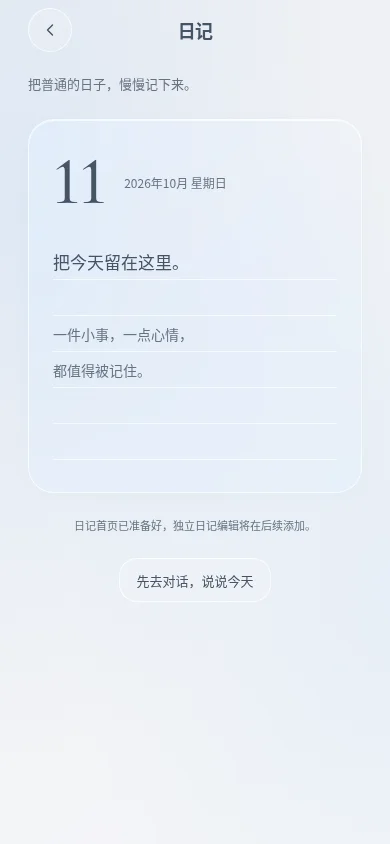
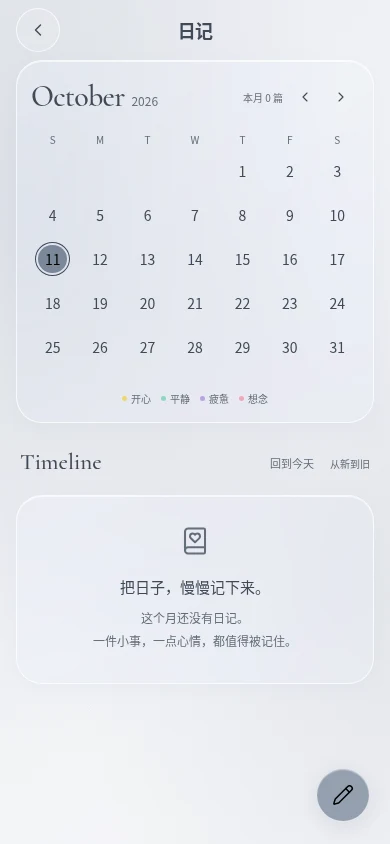
Redesign diary with monthly calendar and local journal timeline

diff --git a/src/apps/diary/style.css b/src/apps/diary/style.css
@@ -1,1 +1,35 @@
-.diary-paper{padding:28px 24px}.diary-paper time{display:flex;align-items:center;gap:18px}.diary-paper time strong{font:500 68px/1 var(--font-en);font-variant-numeric:lining-nums}.diary-paper time span{font-size:12px;line-height:1.8;max-width:120px;color:var(--muted)}.diary-lines{margin-top:28px;min-height:220px;background:repeating-linear-gradient(transparent 0,transparent 35px,var(--line) 35px,var(--line) 36px);padding-top:0}.diary-lines h2{font-size:17px;font-weight:500;line-height:36px;margin:0 0 36px}.diary-lines p{font-size:14px;line-height:36px;margin:0;color:var(--muted)}
+.page-content.desktop-app-page:has(.diary-app){padding-left:16px;padding-right:16px}
+.diary-app{padding-bottom:84px;font-family:var(--font-ui)}
+.diary-calendar{padding:14px 12px 16px}
+.diary-calendar-header{display:flex;align-items:center;gap:4px;min-height:44px;margin:0 2px 8px}
+.diary-month{display:flex;align-items:baseline;gap:7px;min-width:0;margin-right:auto}
+.diary-month h2{font:500 30px/1.15 var(--font-en);letter-spacing:-.025em}
+.diary-month>span{font-size:12px;color:var(--muted);font-variant-numeric:lining-nums}
+.diary-month-count{font-size:10px;color:var(--muted);white-space:nowrap}
+.diary-month-controls{display:flex;flex-shrink:0}.diary-month-controls button{width:36px;height:44px;display:grid;place-items:center;border-radius:14px}.diary-month-controls svg{width:16px;height:16px}
+.diary-weekdays,.diary-days{display:grid;grid-template-columns:repeat(7,minmax(0,1fr));text-align:center}
+.diary-weekdays{font-size:10px;color:var(--muted);line-height:26px;margin-bottom:2px}
+.diary-day{height:44px;padding:2px 0;display:flex;flex-direction:column;align-items:center;justify-content:center;border-radius:14px;font-variant-numeric:lining-nums tabular-nums;font-size:14px}
+.diary-day-number{width:29px;height:29px;display:grid;place-items:center;border:1px solid transparent;border-radius:50%}
+.diary-day.is-today .diary-day-number{background:var(--accent);color:var(--accent-ink)}
+.diary-day.is-selected .diary-day-number{outline:1px solid var(--ink);outline-offset:2px}
+.diary-day-moods{display:flex;align-items:center;gap:2px;height:9px;margin-top:3px}.diary-day-moods i,.diary-legend i{display:inline-block;width:5px;height:5px;border-radius:50%;background:var(--mood)}
+.diary-legend{display:flex;justify-content:center;gap:10px;margin-top:16px;color:var(--muted);font-size:10px}.diary-legend>span{display:flex;align-items:center;gap:4px}
+.diary-timeline-heading{display:flex;gap:12px;align-items:center;margin:18px 4px 10px;min-height:44px}.diary-timeline-heading h2{font:500 23px/1.2 var(--font-en);margin-right:auto}.diary-timeline-heading>span{font-size:10px;color:var(--muted)}.diary-timeline-heading button{font-size:11px;color:var(--muted);min-height:44px;padding:0 4px;border-radius:12px}
+.diary-row{display:grid;grid-template-columns:40px 20px minmax(0,1fr);position:relative;padding-bottom:14px}.diary-row:last-child{padding-bottom:0}
+.diary-date{display:flex;flex-direction:column;align-items:center;padding-top:12px;gap:4px}.diary-date strong{font:500 32px/.95 var(--font-en);font-variant-numeric:lining-nums}.diary-date>span{font-size:9px;letter-spacing:.07em;color:var(--muted)}
+.diary-track{position:relative;display:flex;justify-content:center;padding-top:17px}.diary-track:before{content:'';position:absolute;top:22px;bottom:-22px;left:calc(50% - .5px);width:1px;background:rgb(var(--tint) / .45)}.diary-row:last-child .diary-track:before{display:none}.diary-track i{position:relative;display:block;width:11px;height:11px;border-radius:50%;background:var(--mood);box-shadow:0 0 0 4px var(--bg)}
+.diary-app .diary-entry.app-panel{display:block;width:100%;text-align:left;border-radius:20px;padding:12px 14px;min-width:0;overflow-wrap:anywhere}.diary-app .diary-entry.is-selected{border-color:var(--accent);box-shadow:inset 0 0 0 1px rgb(var(--tint) / .45)}
+.diary-entry-meta{display:flex;gap:10px;align-items:center;justify-content:space-between;margin-bottom:7px;font-size:11px;color:var(--muted);font-variant-numeric:lining-nums tabular-nums}.diary-mood{background:color-mix(in srgb,var(--mood) 26%,transparent);color:var(--ink);border-radius:20px;padding:3px 9px;font-size:10px;white-space:nowrap}
+.diary-entry-title{display:block;font-size:14px;line-height:1.65;font-weight:500;margin-bottom:3px}.diary-entry-excerpt{display:-webkit-box;-webkit-box-orient:vertical;-webkit-line-clamp:3;overflow:hidden;white-space:pre-wrap;font-size:12px;line-height:1.8;color:var(--muted)}
+.diary-empty{text-align:center;padding:30px 12px}.diary-empty>svg{width:30px;height:30px;margin-bottom:15px;color:var(--muted)}.diary-empty h2{font-size:15px;font-weight:500;margin-bottom:10px}.diary-empty p{font-size:12px;line-height:1.9;color:var(--muted)}
+.diary-selected-empty{display:flex;align-items:center;justify-content:space-between;gap:12px;font-size:11px;color:var(--muted);margin:0 4px 12px}.diary-selected-empty button{min-height:44px;min-width:44px;border-radius:12px}
+.diary-app .diary-write{position:fixed;right:max(20px,calc((100vw - 480px)/2 + 8px));bottom:calc(22px + env(safe-area-inset-bottom));width:54px;height:54px;border-radius:50%;display:grid;place-items:center;z-index:3;background:color-mix(in srgb,var(--accent) 76%,transparent);color:var(--accent-ink);box-shadow:inset 0 1px 1px rgb(255 255 255 / .45),0 5px 20px rgb(var(--tint) / .18)}.diary-write svg{width:22px;height:22px}
+dialog.diary-editor{width:min(480px,calc(100% - 24px));max-height:calc(100dvh - 32px);padding:20px;border-radius:26px;color:var(--ink);font-family:var(--font-ui);background:rgb(var(--glass-tint) / .72)}
+.diary-editor::backdrop{background:rgb(20 24 33 / .16);backdrop-filter:blur(var(--glass-blur));-webkit-backdrop-filter:blur(var(--glass-blur))}
+.diary-editor-heading{display:flex;align-items:center;justify-content:space-between;gap:12px}.diary-editor-heading h2{font-size:18px}.diary-editor-heading button{width:44px;height:44px;display:grid;place-items:center;border-radius:50%;background:rgb(var(--glass-tint) / .18)}
+.diary-mood-picker{margin:18px 0;padding:0;border:0;display:flex;flex-wrap:wrap;gap:6px}.diary-mood-picker legend{padding:0;margin-bottom:9px;font-size:12px}.diary-mood-picker label{position:relative;cursor:pointer}.diary-mood-picker input{position:absolute;width:1px;height:1px;opacity:0}.diary-mood-picker label>span{display:flex;align-items:center;gap:6px;min-height:44px;border-radius:16px;border:1px solid var(--hairline);padding:0 10px;font-size:12px}.diary-mood-picker i{width:7px;height:7px;border-radius:50%;background:var(--mood)}.diary-mood-picker input:checked+span{border-color:var(--accent);background:rgb(var(--tint) / .18)}.diary-mood-picker input:focus-visible+span{outline:2px solid var(--accent);outline-offset:2px}
+.diary-editor textarea{min-height:180px}.diary-editor-footer{display:flex;align-items:center;gap:8px;margin-top:20px}.diary-editor-footer>:first-child{margin-right:auto}.diary-local-hint{font-size:11px;color:var(--muted)}.diary-delete{display:flex;align-items:center;gap:5px;min-height:44px;font-size:12px}.diary-delete svg{width:16px;height:16px}.diary-editor-error{font-size:12px;line-height:1.7;padding:12px 0;color:var(--ink)}
+[data-theme=dark] dialog.diary-editor{background:rgb(25 28 35 / .76)}[data-theme=dark] .diary-editor::backdrop{background:rgb(0 0 0 / .3)}
+@media(max-width:365px){.diary-calendar-header{flex-wrap:wrap}.diary-month{flex:1}.diary-month-count{order:3;width:100%;margin:0 0 3px}.diary-month-controls button{width:44px}.diary-month h2{font-size:29px}.diary-row{grid-template-columns:34px 18px minmax(0,1fr)}.diary-app .diary-entry.app-panel{padding:12px}dialog.diary-editor{padding:16px}}
+@supports not (backdrop-filter:blur(1px)){dialog.diary-editor{background:var(--solid)}}

diff --git a/src/apps/diary/view.js b/src/apps/diary/view.js
@@ -1,4 +1,34 @@
-export function diary() {
- const today=new Date();
- return `<section class="diary-paper app-panel glass"><time datetime="${today.getFullYear()}-${String(today.getMonth()+1).padStart(2,'0')}-${String(today.getDate()).padStart(2,'0')}"><strong>${String(today.getDate()).padStart(2,'0')}</strong><span>${today.toLocaleDateString('zh-CN',{year:'numeric',month:'long',weekday:'long'})}</span></time><div class="diary-lines"><h2>把今天留在这里。</h2><p>一件小事，一点心情，<br>都值得被记住。</p></div></section><p class="app-status">日记首页已准备好，独立日记编辑将在后续添加。</p><button class="app-link" data-action="chat">先去对话，说说今天</button>`;
+import { escape, field } from '../../ui.js';
+import { icon } from '../../icons.js';
+import { appIcon } from '../icons.js';
+import { DIARY_MOODS, diaryDate, diaryCalendar, diaryMonthEntries } from './model.js';
+const weekday=['SUN','MON','TUE','WED','THU','FRI','SAT'];
+const moodColor=name=>DIARY_MOODS.find(m=>m.name===name)?.color||'var(--muted)';
+const localDate=value=>new Date(`${value}T12:00:00`);
+export function diary(state,ui={}) {
+ const today=diaryDate(),month=ui.month||today.slice(0,7),selected=ui.selected||today;
+ const entries=diaryMonthEntries(state.diaryEntries,month),monthDate=localDate(`${month}-01`);
+ const focusDate=selected.startsWith(month)?selected:`${month}-01`;
+ return `<section class="diary-calendar app-panel glass" aria-label="${Number(month.slice(0,4))}年${monthDate.getMonth()+1}月日历">
+  <header class="diary-calendar-header"><div class="diary-month"><h2 lang="en">${monthDate.toLocaleDateString('en-US',{month:'long'})}</h2><span>${month.slice(0,4)}</span></div><span class="diary-month-count">本月 ${entries.length} 篇</span><div class="diary-month-controls"><button data-diary-action="previous" aria-label="上个月" ${month==='0001-01'?'disabled':''}>${icon('back')}</button><button data-diary-action="next" aria-label="下个月" ${month==='9999-12'?'disabled':''}>${icon('chevron')}</button></div></header>
+  <div class="diary-weekdays" aria-hidden="true">${['S','M','T','W','T','F','S'].map(day=>`<span>${day}</span>`).join('')}</div>
+  <div class="diary-days" role="group" aria-label="选择日期，方向键切换日期">${diaryCalendar(month).map(date=>{
+   if(!date)return '<span aria-hidden="true"></span>';
+   const records=entries.filter(e=>e.date===date),moods=[...new Set(records.map(e=>e.mood))];
+   return `<button class="diary-day ${date===today?'is-today':''} ${date===selected?'is-selected':''}" data-diary-date="${date}" tabindex="${date===focusDate?'0':'-1'}" aria-pressed="${date===selected}" ${date===today?'aria-current="date"':''} aria-label="${date}，${records.length} 篇日记${moods.filter(Boolean).length?'，'+moods.filter(Boolean).join('、'):''}"><span class="diary-day-number">${Number(date.slice(-2))}</span><span class="diary-day-moods" aria-hidden="true">${moods.map(mood=>`<i style="--mood:${moodColor(mood)}"></i>`).join('')}</span></button>`;
+  }).join('')}</div>
+  <div class="diary-legend">${DIARY_MOODS.map(mood=>`<span><i style="--mood:${mood.color}" aria-hidden="true"></i>${mood.name}</span>`).join('')}</div>
+ </section>
+ <header class="diary-timeline-heading"><h2 lang="en">Timeline<span class="sr-only"> · 日记时间线</span></h2><button data-diary-action="today">回到今天</button><span>从新到旧</span></header>
+ ${entries.length&&!entries.some(e=>e.date===selected)?`<div class="diary-selected-empty"><span>${Number(selected.slice(5,7))}月${Number(selected.slice(-2))}日还没有记录</span><button data-diary-action="write">写一篇</button></div>`:''}
+ <div class="diary-timeline">${entries.length?entries.map(entry=>`<article class="diary-row" data-entry-date="${entry.date}"><time class="diary-date" datetime="${entry.date}"><strong>${Number(entry.date.slice(-2))}</strong><span>${weekday[localDate(entry.date).getDay()]}</span></time><div class="diary-track" aria-hidden="true"><i style="--mood:${moodColor(entry.mood)}"></i></div><button class="diary-entry app-panel glass ${entry.date===selected?'is-selected':''}" data-diary-edit="${escape(entry.id)}" aria-label="阅读和编辑：${escape(entry.title||entry.content.slice(0,40))}"><span class="diary-entry-meta"><time datetime="${new Date(entry.created).toISOString()}">${new Date(entry.created).toLocaleTimeString('zh-CN',{hour:'2-digit',minute:'2-digit',hour12:false})}</time><span class="diary-mood" style="--mood:${moodColor(entry.mood)}">${escape(entry.mood||'未标记')}</span></span><strong class="diary-entry-title">${escape(entry.title||entry.content.split('\n')[0].slice(0,40))}</strong><span class="diary-entry-excerpt">${escape(entry.content)}</span></button></article>`).join(''):`<section class="diary-empty app-panel glass">${appIcon('diary')}<h2>把日子，慢慢记下来。</h2><p>这个月还没有日记。<br>一件小事，一点心情，都值得被记住。</p></section>`}</div>
+ <button class="diary-write glass" data-diary-action="write" aria-label="写 ${selected} 的日记">${icon('edit')}<span class="sr-only">写日记</span></button>`;
+}
+export function diaryEditor(entry,date) {
+ return `<form id="diary-entry-form"><header class="diary-editor-heading"><h2>${entry?'这一天的日记':'写一篇日记'}</h2><button type="button" data-diary-close aria-label="关闭日记编辑">${icon('close')}</button></header><p class="diary-editor-error" role="alert" hidden></p><input type="hidden" name="id" value="${escape(entry?.id||'')}">
+ ${field('日期','date',entry?.date||date,'','date')}
+ <fieldset class="diary-mood-picker"><legend>这一天的心情</legend>${[...DIARY_MOODS,{name:'',color:'var(--muted)'}].map(mood=>`<label style="--mood:${mood.color}"><input type="radio" name="mood" value="${mood.name}" ${(entry?.mood||'')===mood.name?'checked':''}><span><i aria-hidden="true"></i>${mood.name||'不标记'}</span></label>`).join('')}</fieldset>
+ ${field('标题（可选）','title',entry?.title||'','给这一天起个名字')}
+ <label class="field"><span>日记</span><textarea name="content" rows="8" maxlength="12000" required placeholder="今天，有什么想留下的？">${escape(entry?.content||'')}</textarea></label>
+ <footer class="diary-editor-footer">${entry?`<button type="button" class="diary-delete" data-diary-delete>${icon('trash')}<span>删除</span></button>`:'<span class="diary-local-hint">保存在本机</span>'}<button type="button" class="secondary" data-diary-close>取消</button><button type="submit" class="primary">保存</button></footer></form>`;
 }

diff --git a/src/app.js b/src/app.js
@@ -1,3 +1,4 @@
+import { createDiaryApp } from './apps/diary/controller.js';
 import { createHomeEditor } from './home-editor.js';
 import { appView, findApp } from './apps/index.js';
 import { finishSplash } from './splash.js';
@@ -15,6 +16,7 @@ let chatUI={tray:'',tab:'kaomoji',filter:'all',attachments:[]},selection={start:
 const expressionDialog=document.createElement('dialog');expressionDialog.className='glass expression-dialog';document.body.append(expressionDialog);
 const dialog=document.createElement('dialog');dialog.id='memory-dialog';dialog.className='glass';document.body.append(dialog);
 const homeEditor=createHomeEditor({app,getState:()=>state,setState:value=>{state=value;},persist,renderHome,notify,compressImage,openApp:goto});
+const diaryApp=createDiaryApp({app,getState:()=>state,setState:value=>{state=value;},persist,notify});
 function notify(value){const n=document.querySelector('#notice');n.textContent=value;n.classList.add('visible');clearTimeout(toastTimer);toastTimer=setTimeout(()=>n.classList.remove('visible'),3500);}
 function persist(){try{saveState(storage,state);return true;}catch{notify('本机存储不足或不可用。修改尚未保存，请导出备份或换一张更小的图片。');return false;}}
 function saveNotice(text){if(persist())notify(text);}
@@ -23,7 +25,7 @@ function render(){
  for(const node of app.querySelectorAll('details')){if(node.open)opened.add(node.id);else opened.delete(node.id);}
  applyAppearance();
  const activePage=page==='sessions'?'chat':page,desktopApp=findApp(page),immersive=['chat','sessions'].includes(page)||desktopApp;
- app.innerHTML=`<div class="shell ${immersive?'immersive':''}"><div class="wallpaper" aria-hidden="true"></div><main>${page==='chat'?chat(state,chatUI):page==='sessions'?sessions(state,sessionSearch,oldestFirst):`<div class="page-content ${page==='home'?'home-page':desktopApp?'desktop-app-page':''}">${desktopApp?appView(page,state):page==='home'?home(state,homeEditor.ui):page==='memory'?memory(state,memoryFilter,memorySearch):page==='settings'?settings(state):`<header class="session-header">${button('chat','back','返回对话')}</header>${sessions(state)}`}</div>`}</main>${immersive?'':`<div class="nav-dock"><nav class="bottom-nav glass" aria-label="主导航">${nav.map(([p,i,l])=>`<button data-action="${p}" aria-label="${l}" class="${activePage===p?'active':''}" ${activePage===p?'aria-current="page"':''}>${icon(i)}</button>`).join('')}</nav></div>`}</div>`;
+ app.innerHTML=`<div class="shell ${immersive?'immersive':''}"><div class="wallpaper" aria-hidden="true"></div><main>${page==='chat'?chat(state,chatUI):page==='sessions'?sessions(state,sessionSearch,oldestFirst):`<div class="page-content ${page==='home'?'home-page':desktopApp?'desktop-app-page':''}">${desktopApp?appView(page,state,diaryApp.ui):page==='home'?home(state,homeEditor.ui):page==='memory'?memory(state,memoryFilter,memorySearch):page==='settings'?settings(state):`<header class="session-header">${button('chat','back','返回对话')}</header>${sessions(state)}`}</div>`}</main>${immersive?'':`<div class="nav-dock"><nav class="bottom-nav glass" aria-label="主导航">${nav.map(([p,i,l])=>`<button data-action="${p}" aria-label="${l}" class="${activePage===p?'active':''}" ${activePage===p?'aria-current="page"':''}>${icon(i)}</button>`).join('')}</nav></div>`}</div>`;
  if(sidebarDialog.open){const scroll=sidebarDialog.querySelector('.sidebar-conversations')?.scrollTop||0;sidebarDialog.innerHTML=sidebar(state,page);sidebarDialog.querySelector('.sidebar-conversations').scrollTop=scroll;}
  for(const id of opened){const d=document.getElementById(id);if(d)d.open=true;}
  const messages=document.querySelector('#messages');if(messages)messages.scrollTop=messages.scrollHeight;
@@ -150,7 +152,7 @@ app.addEventListener('change',async e=>{
    try{const data=await compressImage(t.files[0],key==='wallpaper'?1440:256);state.appearance[key]=data;if(!persist()){state.appearance[key]=previous;return;}const y=app.querySelector('.page-content').scrollTop;render();app.querySelector('.page-content').scrollTop=y;notify('图片已保存。');}catch(error){notify(error.message);}
  }
  if(t.id==='import-data'&&t.files[0]){
-   try{if(t.files[0].size>6*1024*1024)throw new Error('备份超过 6MB，请先缩小备份。');const next=normalizeState(JSON.parse(await t.files[0].text()));if(!confirm('导入会替换当前会话、记忆和外观。已导出当前备份了吗？'))return;try{saveState(storage,next);}catch{throw new Error('本机存储不足，原数据未替换。');}state=next;composeDraft='';chatUI={tray:'',tab:'kaomoji',filter:'all',attachments:[]};memorySearch='';memoryFilter='all';goto('home');notify('备份已恢复。');}catch(error){notify(`导入失败：${error.message}`);}finally{t.value='';}
+   try{if(t.files[0].size>6*1024*1024)throw new Error('备份超过 6MB，请先缩小备份。');const next=normalizeState(JSON.parse(await t.files[0].text()));if(!confirm('导入会替换当前会话、日记、记忆、主页布局和外观。已导出当前备份了吗？'))return;try{saveState(storage,next);}catch{throw new Error('本机存储不足，原数据未替换。');}state=next;composeDraft='';chatUI={tray:'',tab:'kaomoji',filter:'all',attachments:[]};memorySearch='';memoryFilter='all';goto('home');notify('备份已恢复。');}catch(error){notify(`导入失败：${error.message}`);}finally{t.value='';}
  }
 });
 app.addEventListener('keydown',e=>{if(e.target.name==='message'&&e.key==='Enter'&&!e.shiftKey&&!e.isComposing&&!e.repeat){e.preventDefault();e.target.form.requestSubmit();}});

diff --git a/src/apps/diary/controller.js b/src/apps/diary/controller.js
@@ -1,0 +1,70 @@
+import { diary, diaryEditor } from './view.js';
+import { diaryDate, validDiaryDate, diaryCalendar, shiftDiaryMonth, saveDiaryEntry } from './model.js';
+export function createDiaryApp({app,getState,setState,persist,notify}) {
+ const today=diaryDate(),ui={month:today.slice(0,7),selected:today};
+ const dialog=document.createElement('dialog');dialog.className='diary-editor glass';dialog.setAttribute('aria-label','日记编辑');document.body.append(dialog);
+ let editingId='',returnFocus;
+ function refresh(focusSelector) {
+  const body=app.querySelector('.diary-app .desktop-app-body');if(!body)return;
+  const scroller=app.querySelector('.page-content'),top=scroller.scrollTop;
+  body.innerHTML=diary(getState(),ui);scroller.scrollTop=top;
+  if(focusSelector)body.querySelector(focusSelector)?.focus({preventScroll:true});
+ }
+ function select(date,scroll=false) {
+  if(!validDiaryDate(date))return;
+  ui.selected=date;ui.month=date.slice(0,7);refresh(`[data-diary-date="${date}"]`);
+  if(scroll)app.querySelector(`[data-entry-date="${date}"]`)?.scrollIntoView({block:'nearest',behavior:matchMedia('(prefers-reduced-motion: reduce)').matches?'auto':'smooth'});
+ }
+ function open(entry) {
+  returnFocus=document.activeElement;editingId=entry?.id||'';
+  dialog.innerHTML=diaryEditor(entry,ui.selected);
+  const date=dialog.querySelector('[name=date]');date.required=true;date.min='0001-01-01';date.max='9999-12-31';
+  dialog.querySelector('[name=title]').maxLength=80;
+  dialog.showModal();dialog.querySelector('[data-diary-close]').focus({preventScroll:true});
+ }
+ function commit(change) {
+  const previous=structuredClone(getState());
+  try {
+   const result=change(getState());
+   if(!persist())throw new Error('日记尚未保存，本机存储不足或不可用。内容仍保留在这里，请备份后重试。');
+   return result;
+  } catch(error) {
+   setState(previous);const alert=dialog.querySelector('[role=alert]');alert.hidden=false;alert.textContent=error.message;return null;
+  }
+ }
+ app.addEventListener('click',event=>{
+  const button=event.target.closest('.diary-app button');if(!button)return;
+  if(button.dataset.diaryDate){select(button.dataset.diaryDate,true);return;}
+  if(button.dataset.diaryEdit){const entry=getState().diaryEntries.find(e=>e.id===button.dataset.diaryEdit);if(entry)open(entry);return;}
+  const action=button.dataset.diaryAction;
+  if(action==='write')open();
+  if(action==='today')select(diaryDate());
+  if(action==='previous'||action==='next') {
+   ui.month=shiftDiaryMonth(ui.month,action==='next'?1:-1);
+   const last=diaryCalendar(ui.month).filter(Boolean).at(-1),day=Math.min(Number(ui.selected.slice(-2)),Number(last.slice(-2)));
+   ui.selected=`${ui.month}-${String(day).padStart(2,'0')}`;
+   refresh(`[data-diary-action="${action}"]`);
+  }
+ });
+ app.addEventListener('keydown',event=>{
+  const button=event.target.closest('[data-diary-date]');if(!button)return;
+  const date=new Date(`${button.dataset.diaryDate}T12:00:00`),offset={ArrowLeft:-1,ArrowRight:1,ArrowUp:-7,ArrowDown:7,Home:-date.getDay(),End:6-date.getDay()}[event.key];
+  if(offset===undefined||event.altKey||event.ctrlKey||event.metaKey)return;
+  event.preventDefault();date.setDate(date.getDate()+offset);select(diaryDate(date));
+ });
+ dialog.addEventListener('click',event=>{
+  if(event.target.closest('[data-diary-close]'))dialog.close();
+  if(event.target.closest('[data-diary-delete]')&&confirm('删除这篇日记？删除后无法恢复。')) {
+   const saved=commit(state=>{state.diaryEntries=state.diaryEntries.filter(e=>e.id!==editingId);return true;});
+   if(saved){dialog.close();refresh('[data-diary-action=write]');notify('日记已删除。');}
+  }
+ });
+ dialog.addEventListener('submit',event=>{
+  event.preventDefault();const entry=commit(state=>saveDiaryEntry(state,Object.fromEntries(new FormData(event.target))));
+  if(!entry)return;
+  ui.month=entry.date.slice(0,7);ui.selected=entry.date;dialog.close();refresh(`[data-diary-edit="${CSS.escape(entry.id)}"]`);notify('日记已保存。');
+ });
+ dialog.addEventListener('keydown',event=>{if(event.key==='Enter'&&(event.ctrlKey||event.metaKey)){event.preventDefault();dialog.querySelector('form').requestSubmit();}});
+ dialog.addEventListener('close',()=>{if(returnFocus?.isConnected)returnFocus.focus({preventScroll:true});});
+ return {ui};
+}

diff --git a/tests/diary.test.js b/tests/diary.test.js
@@ -1,0 +1,47 @@
+import test from 'node:test';
+import assert from 'node:assert/strict';
+import { createState, normalizeState, exportData, loadState, saveState } from '../src/store.js';
+import { diaryCalendar, shiftDiaryMonth, validDiaryDate, saveDiaryEntry, diaryMonthEntries } from '../src/apps/diary/model.js';
+import { diary, diaryEditor } from '../src/apps/diary/view.js';
+test('diary calendar handles leap days, year rollover and supported year limits',()=>{
+ assert.equal(diaryCalendar('2024-02').filter(Boolean).length,29);
+ assert.equal(diaryCalendar('2026-02').filter(Boolean).length,28);
+ assert.equal(diaryCalendar('2026-10').indexOf('2026-10-01'),4);
+ assert.equal(diaryCalendar('2026-08').length,42);
+ assert.equal(shiftDiaryMonth('2026-12',1),'2027-01');
+ assert.equal(shiftDiaryMonth('2026-01',-1),'2025-12');
+ assert.equal(shiftDiaryMonth('0001-01',-1),'0001-01');
+ assert.equal(shiftDiaryMonth('9999-12',1),'9999-12');
+ for(const date of ['2026-02-29','2026-04-31','2026-13-01','0000-01-01','2026-1-1'])assert.equal(validDiaryDate(date),false);
+ assert.equal(validDiaryDate('2024-02-29'),true);
+});
+test('multiple diaries per day sort by date and creation; editing preserves identity and creation time',()=>{
+ const state=createState();
+ const first=saveDiaryEntry(state,{date:'2026-10-11',title:' first ',content:' text ',mood:'开心'},1000);
+ const later=saveDiaryEntry(state,{date:'2026-10-11',content:'later',mood:'平静'},2000);
+ saveDiaryEntry(state,{date:'2026-09-30',content:'previous month'},3000);
+ const edited=saveDiaryEntry(state,{id:first.id,date:'2026-10-11',title:'edited',content:'changed',mood:'想念'},4000);
+ assert.equal(edited.id,first.id);assert.equal(edited.created,1000);assert.equal(edited.updated,4000);
+ assert.equal(state.diaryEntries.length,3);
+ assert.deepEqual(diaryMonthEntries(state.diaryEntries,'2026-10').map(e=>e.id),[later.id,first.id]);
+ const before=structuredClone(state);
+ for(const data of [{date:'2026-02-30',content:'bad'},{date:'2026-10-11',content:'  '},{id:'missing',date:'2026-10-11',content:'text'}])assert.throws(()=>saveDiaryEntry(state,data));
+ assert.deepEqual(state,before);
+});
+test('diary backup and reload preserve existing user data; old backups start with no sample entries',()=>{
+ const state=createState();state.home.note='保留便签';state.sessions[0].messages.push({id:'m',role:'user',text:'保留聊天',time:1});
+ saveDiaryEntry(state,{date:'2026-10-11',title:'我的日记',content:'本机记录',mood:'疲惫'});
+ const values=new Map(),storage={getItem:k=>values.get(k),setItem:(k,v)=>values.set(k,v)};
+ saveState(storage,state);
+ const restored=normalizeState(JSON.parse(exportData(loadState(storage))));
+ assert.deepEqual(restored.diaryEntries,state.diaryEntries);assert.equal(restored.home.note,'保留便签');assert.equal(restored.sessions[0].messages[0].text,'保留聊天');assert.deepEqual(restored.home.pages,state.home.pages);
+ delete state.diaryEntries;
+ for(const version of [1,2])assert.deepEqual(normalizeState({...state,version}).diaryEntries,[]);
+ for(const diaryEntries of [null,{},[{id:'bad',date:'2026-02-30',content:'text'}],[...restored.diaryEntries,...restored.diaryEntries]])assert.throws(()=>normalizeState({...state,diaryEntries}),/日记数据损坏/);
+});
+test('diary and editor render user text safely and expose mood/date labels',()=>{
+ const state=createState(),entry=saveDiaryEntry(state,{date:'2026-10-11',title:'<img src=x onerror=alert(1)>',content:'</textarea><script>bad</script>',mood:'开心'});
+ const view=diary(state,{month:'2026-10',selected:'2026-10-11'}),editor=diaryEditor(entry,entry.date);
+ assert.ok(view.includes('2026-10-11，1 篇日记，开心'));
+ for(const html of [view,editor]){assert.ok(!html.includes('<script>'));assert.ok(!html.includes('<img src=x'));assert.ok(html.includes('&lt;'));}
+});

diff --git a/src/apps/diary/model.js b/src/apps/diary/model.js
@@ -1,0 +1,52 @@
+export const DIARY_MOODS = [
+ {name:'开心',color:'#f4d66e'}, {name:'平静',color:'#8ed6c0'},
+ {name:'疲惫',color:'#b7a2e2'}, {name:'想念',color:'#f2a7be'},
+];
+export function diaryDate(date=new Date()) {
+ return `${String(date.getFullYear()).padStart(4,'0')}-${String(date.getMonth()+1).padStart(2,'0')}-${String(date.getDate()).padStart(2,'0')}`;
+}
+export function validDiaryDate(value) {
+ if(typeof value!=='string'||!/^\d{4}-\d{2}-\d{2}$/.test(value)||value<'0001-01-01')return false;
+ const date=new Date(`${value}T12:00:00`);
+ return Number.isFinite(date.getTime())&&diaryDate(date)===value;
+}
+export function diaryCalendar(month) {
+ if(!validDiaryDate(`${month}-01`))throw new Error('无效的月份');
+ const first=new Date(`${month}-01T12:00:00`),last=new Date(first);
+ last.setMonth(last.getMonth()+1,0);
+ const cells=Array(first.getDay()).fill(null);
+ for(let day=1;day<=last.getDate();day++)cells.push(`${month}-${String(day).padStart(2,'0')}`);
+ while(cells.length%7)cells.push(null);
+ return cells;
+}
+export function shiftDiaryMonth(month,offset) {
+ const date=new Date(`${month}-01T12:00:00`);date.setMonth(date.getMonth()+offset);
+ const next=diaryDate(date).slice(0,7);
+ return validDiaryDate(`${next}-01`)?next:month;
+}
+export function diaryMonthEntries(entries,month) {
+ return entries.filter(entry=>entry.date.startsWith(`${month}-`)).slice().sort((a,b)=>b.date.localeCompare(a.date)||b.created-a.created);
+}
+const validTime=value=>Number.isFinite(value)&&Number.isFinite(new Date(value).getTime());
+export function normalizeDiaryEntries(value) {
+ if(value===undefined)return [];
+ if(!Array.isArray(value))throw new Error('日记数据损坏');
+ const ids=new Set();
+ return value.map(entry=>{
+  if(typeof entry?.id!=='string'||!entry.id||ids.has(entry.id)||!validDiaryDate(entry.date)||typeof entry.content!=='string')throw new Error('日记数据损坏');
+  ids.add(entry.id);
+  const created=validTime(entry.created)?entry.created:Date.now();
+  return {id:entry.id,date:entry.date,title:typeof entry.title==='string'?entry.title.slice(0,80):'',content:entry.content.slice(0,12000),mood:DIARY_MOODS.some(m=>m.name===entry.mood)?entry.mood:'',created,updated:validTime(entry.updated)?entry.updated:created};
+ });
+}
+export function saveDiaryEntry(state,data,now=Date.now()) {
+ if(!validDiaryDate(data.date))throw new Error('请选择有效的日记日期');
+ const content=String(data.content||'').trim();
+ if(!content)throw new Error('写点什么，再保存吧。');
+ const existing=data.id?state.diaryEntries.find(entry=>entry.id===data.id):null;
+ if(data.id&&!existing)throw new Error('这篇日记已不存在');
+ const entry={id:existing?.id||crypto.randomUUID(),date:data.date,title:String(data.title||'').trim().slice(0,80),content:content.slice(0,12000),mood:DIARY_MOODS.some(m=>m.name===data.mood)?data.mood:'',created:existing?.created??now,updated:now};
+ if(existing)state.diaryEntries[state.diaryEntries.indexOf(existing)]=entry;
+ else state.diaryEntries.push(entry);
+ return entry;
+}

diff --git a/src/store.js b/src/store.js
@@ -1,3 +1,4 @@
+import { normalizeDiaryEntries } from './apps/diary/model.js';
 import { normalizeHomePages } from './home-layout.js';
 import { APP_TYPES } from './apps/catalog.js';
 export const STORAGE_KEY = 'chenxin.frontend.v1';
@@ -14,7 +15,7 @@ export function daysTogether(since, now = new Date()) {
  return Math.floor((Date.UTC(now.getFullYear(),now.getMonth(),now.getDate()) - Date.UTC(y,m-1,d))/86400000) + 1;
 }
 function extras() {
- return { appearance: { accent:'#7a879a', wallpaper:'', userAvatar:'', aiAvatar:'', blur:22, opacity:60 },
+ return { diaryEntries:[], appearance: { accent:'#7a879a', wallpaper:'', userAvatar:'', aiAvatar:'', blur:22, opacity:60 },
  home: { pages:[['anniversary',...WIDGETS],[...APP_TYPES]], hiddenApps:[], anniversaryVisible:true, dateRevision:1, since:'2026-07-12', title:'在一起的日子', userName:'我', subtitle:'把普通的日子，慢慢收藏。', note:'', mood:'', userBubble:'喵……', aiBubble:'我在。', widgetTitles:{}, showWeekday:true, memoryId:'', widgets:WIDGETS.map(type=>({type,enabled:true})) }, memories:[], expressions:{kaomoji:['❍⩊❍','˶ᵔ ᵕ ᵔ˶','˃ ˄ ˂̥̥','(｡･ω･｡)'].map(value=>({id:crypto.randomUUID(),value,favorite:true,used:0})),stickers:[]} };
 }
 export function createState() {
@@ -37,7 +38,7 @@ export function normalizeState(s) {
  const seen = new Set();
  const normalizedWidgets = widgets.filter(w=>!seen.has(w.type) && seen.add(w.type)).map(w=>({type:w.type,enabled:w.enabled !== false}));
  WIDGETS.forEach(type=>{if(!seen.has(type)) normalizedWidgets.push({type,enabled:true});});
- return {version:2, expressions:normalizeExpressions(s.expressions,defaults.expressions), active:ids.has(s.active)?s.active:sessions[0].id, theme:s.theme==='dark'?'dark':'light', sessions,
+ return {version:2, diaryEntries:normalizeDiaryEntries(s.diaryEntries), expressions:normalizeExpressions(s.expressions,defaults.expressions), active:ids.has(s.active)?s.active:sessions[0].id, theme:s.theme==='dark'?'dark':'light', sessions,
  persona:{name:text(s.persona.name,'尘',40)||'尘',prompt:text(s.persona.prompt)},
  provider:{protocol:['openai','anthropic','gemini'].includes(s.provider.protocol)?s.provider.protocol:'openai',baseUrl:text(s.provider.baseUrl,'',2000),model:text(s.provider.model,'',200)},
  plugins:s.plugins.map(p=>{if(typeof p?.id!=='string'||typeof p.name!=='string'||typeof p.url!=='string')throw new Error('插件数据损坏');return {id:p.id,name:text(p.name,'',80),url:text(p.url,'',2000),type:p.type==='plugin'?'plugin':'mcp'};}),

diff --git a/src/apps/index.js b/src/apps/index.js
@@ -9,8 +9,8 @@ import { archives } from './archives/view.js';
 import { appearance } from './appearance/view.js';
 export { APPS, findApp };
 const views={diary,music,gallery,presets,worldbook,archives,appearance};
-export function appView(id,state) {
+export function appView(id,state,ui) {
  const app=findApp(id);
  if(!app)return '';
- return `<section class="desktop-app ${app.icon}-app" data-app-page="${app.id}"><header class="desktop-app-header">${button('home','back','返回主页')}<h1 tabindex="-1">${app.name}</h1><span aria-hidden="true"></span></header><p class="desktop-app-intro">${escape(app.subtitle)}</p><div class="desktop-app-body">${views[app.icon](state)}</div></section>`;
+ return `<section class="desktop-app ${app.icon}-app" data-app-page="${app.id}"><header class="desktop-app-header">${button('home','back','返回主页')}<h1 tabindex="-1">${app.name}</h1><span aria-hidden="true"></span></header>${app.icon==='diary'?'':`<p class="desktop-app-intro">${escape(app.subtitle)}</p>`}<div class="desktop-app-body">${views[app.icon](state,ui)}</div></section>`;
 }

diff --git a/docs/CODEX_HANDOFF.md b/docs/CODEX_HANDOFF.md
@@ -32,8 +32,10 @@
 - 默认打开主页；主导航只有「主页、对话、记忆、设置」，底栏仅显示图标，保留无障碍名称；背景为高透明玻璃、细亮边与模糊效果。对话页与完整会话列表隐藏底栏。
 - 桌面新增日记、音乐、图库、预设、世界书、档案、外观七个 App，图标占 1×1，四列排列，日间灰黑线条、夜间纯白线条，中性高透明玻璃外框与背景。每个入口可打开独立页面，左上返回主页，App 内隐藏底栏。新数据默认在第二页放 App；已有布局优先使用空页或新增页，不重排原组件，最多 12 页。
 - App 图标复用长按菜单（打开 App、编辑主页、移除）、拖拽排序/跨页、Alt+方向键和入口恢复。移除只设置 home.hiddenApps，不删除配置或内容；满页阻止移动/恢复并提示腾出空间，取消拖动不保存；拖拽可经过已满页面继续翻页，未找到空位时回到图标原页。1×1 与大组件混排时自动避开碎片空位，保持 4×6 网格。
-- 外观 App 已完整接入原有主题、夜间模式、透明度、模糊、壁纸和两种头像设置；系统设置移除外观分组，保留陪伴者、模型、插件、储存和用量。日记/音乐/世界书目前为各自的空状态首页；图库展示本机壁纸、头像和聊天图片；预设展示当前角色/模型并链接原有配置；档案展示现有双方资料与数量。独立日记编辑、音乐播放/曲库、相册管理、多套预设、世界书编辑/上下文尚未实现，不要把首页展示当成这些服务已接通。
+- 外观 App 已完整接入原有主题、夜间模式、透明度、模糊、壁纸和两种头像设置；系统设置移除外观分组，保留陪伴者、模型、插件、储存和用量。音乐/世界书目前为各自的空状态首页；图库展示本机壁纸、头像和聊天图片；预设展示当前角色/模型并链接原有配置；档案展示现有双方资料与数量。音乐播放/曲库、相册管理、多套预设、世界书编辑/上下文尚未实现，不要把首页展示当成这些服务已接通。
 - 主页顶部原来的品牌/「我们的主页」标题区域已删除。
+- 日记 App 已按月历 + Timeline 时间线重构：保留全局壁纸与玻璃材质，不添加参考稿的背景装饰圆。支持换月、回到今天、日期选择与记录高亮、心情色点、同日多篇、本机新建/编辑/删除；月历支持方向键与 Home/End。右下角写日记按当前选中日期创建。小字使用 UI 无衬线字体，月份/Timeline/时间线大日期使用 Cormorant。未创建记录时展示空状态，不预置示例日记。
+- 日记字段 `diaryEntries` 随现有 JSON 备份导入/导出；每篇保存 id、date、title、content、mood、created、updated，标题最多 80 字、正文最多 12000 字。日期使用本地日历日，修改保留创建时间；旧 v1/v2 备份缺字段时补空数组。保存失败回滚状态并保留编辑内容。日记仅保存在本机，尚无 AI 自动写日记或云同步。
 - 纪念日透明无边框，占 4×2：左侧开始日期（14px，位于数字上方）、放大的衬线数字及数字右下侧 days；右侧两个独立圆头像并排，各自上方为连续圆滑短尾巴的中性高透玻璃气泡（SVG 主体和尾巴为一个路径，非单独三角形）；气泡背景只随昼夜切换，数字、气泡文字、日期和头像占位文字在日间固定深灰蓝，夜间随主题色变化。头像素材沿用用户自己的图片。原标题与下方说明不再展示或提供编辑，旧数据仍保留在存储及备份中。
 - 纪念日默认开始日期为 2026-07-12；旧数据的 2026-10-07 一次性迁移为该日期，其他已有日期保留，迁移后仍可自由编辑。日期上移至数字上方，保留与数字之间的留白。
 - 日历遵循用户提供的玻璃卡片示例：实时 24 小时时间、星期/日期标签、分隔线、前一周/本周/后一周共 21 天，突出今天，字号在原示例基础上略微放大；跨日刷新，跨月/跨年正确排列，保留星期显示设置与组件名。
@@ -86,7 +88,7 @@
 - `src/app.js`：导航、事件、本机交互、图片处理、主页局部 DOM 更新。
 - `src/views.js`：主页、对话、记忆、系统设置模板。
 - `src/ui.js`：共享的转义、按钮、字段和头像。
-- `src/apps/`：七个 App 各自的 view.js 与 style.css；catalog.js 定义固定入口 ID，index.js 组装独立页面，icons.js 保存 React Icons 的 SVG 数据。具体修改位置见 src/apps/README.md。
+- `src/apps/`：七个 App 各自的 view.js 与 style.css；catalog.js 定义固定入口 ID，index.js 组装独立页面，icons.js 保存 React Icons 的 SVG 数据。日记另有 model.js（日历/数据校验）与 controller.js（日期/编辑交互）。具体修改位置见 src/apps/README.md。
 - `src/home-editor.js`：主页菜单、拖拽/分页、编辑抽屉、头像草稿和跨日刷新。
 - `src/home-layout.js`：分页迁移、组件移动、4×6 网格定位与菜单定位。
 - `src/home-calendar.js`：三周日历的本地日期窗口。
@@ -132,3 +134,7 @@ npm test
 最新分页预览：`docs/preview-home-menu.webp`、`docs/preview-home-page2.webp`；主页与编辑预览已更新。
 
 最新 App 实际预览：`docs/preview-apps.webp`、`docs/preview-apps-dark.webp`、`docs/preview-app-appearance.webp`；七个独立首页分别为 `docs/preview-app-{diary,music,gallery,presets,worldbook,archives,appearance}.webp`。
+
+最新日记预览：`docs/preview-app-diary.webp` 为空状态；`docs/preview-diary-timeline.webp`、`docs/preview-diary-dark.webp` 使用临时演示记录展示时间线，演示内容不写入默认数据。
+
+日记改版验证：`npm run check`、27 项 Node 测试通过；Chromium 在 320×640、390×844、844×390 下验证新建/编辑/取消/删除、日期方向键跨闰日、同日多篇心情点、存储失败回滚、昼夜/全局模糊 0 与 40、导出/导入/重载及旧会话/便签/主页数据保留。

diff --git a/src/apps/README.md b/src/apps/README.md
@@ -4,7 +4,7 @@
 
 | App | 文件夹 | 页面与样式 |
 | --- | --- | --- |
-| 日记 | `diary/` | `view.js`、`style.css` |
+| 日记 | `diary/` | `view.js`、`style.css`、`model.js`、`controller.js` |
 | 音乐 | `music/` | `view.js`、`style.css` |
 | 图库 | `gallery/` | `view.js`、`style.css` |
 | 预设 | `presets/` | `view.js`、`style.css` |
@@ -18,7 +18,7 @@
 
 各界面沿用已有主题、壁纸和本机数据，不为每个 App 建立重复的数据副本。
 外观已经完整迁移原设置；图库展示已保存图片，预设/档案沿用现有配置。
-其余为独立首页，具体功能将逐个实现。启用新的操作按钮时，需要同时接入实际行为。
+日记已支持月历与心情时间线、本机新建/编辑/删除；model.js 管理日期与记录数据，controller.js 处理交互。日记保存在根状态 diaryEntries 中，随现有备份恢复；旧数据默认空数组。其他尚未接入的功能将逐个实现。启用新的操作按钮时，需要同时接入实际行为。
 
 新增持久数据时，在 `../store.js` 补充默认值、旧备份兼容与验证；用户文字通过 `../ui.js` 的 `escape` 转义。
 入口从主页移除只修改 `home.hiddenApps`，保留内容及设置。不要改已发布的 `app-*` ID 或存储键。

diff --git a/README.md b/README.md
@@ -25,7 +25,7 @@ python3 -m http.server 5173 --bind 127.0.0.1
 - 会话：新建、切换、删除、本机草稿保存；会话列表从对话页顶部进入。
 - 记忆：手动添加、搜索、编辑、删除，以及收藏对话中的消息；短期（1/7/30 天）、永久分类。到期保留在“已到期”，不自动删除。
 - 系统设置：角色、API、MCP/插件、数据储存和用量；纪念日和小组件在主页原地编辑，外观设置在独立 App。
-- 桌面 App：日记、音乐、图库、预设、世界书、档案、外观。七个入口可以打开独立首页；目前图库汇集已有本机图片，预设/档案沿用现有资料，日记编辑、音乐播放、多套预设及世界书功能留待后续。
+- 桌面 App：日记、音乐、图库、预设、世界书、档案、外观。七个入口可以打开独立首页；目前图库汇集已有本机图片，预设/档案沿用现有资料，日记已支持月历、心情标记与时间线，以及本机新建/编辑/删除和备份恢复；音乐播放、多套预设及世界书功能留待后续。
 - 完整 JSON 备份导出/恢复，兼容 v0.1 的会话数据。
 - 图标采用 Lucide，同属 React Icons 收录的图标系列；许可见 THIRD_PARTY_NOTICES.md。
 
